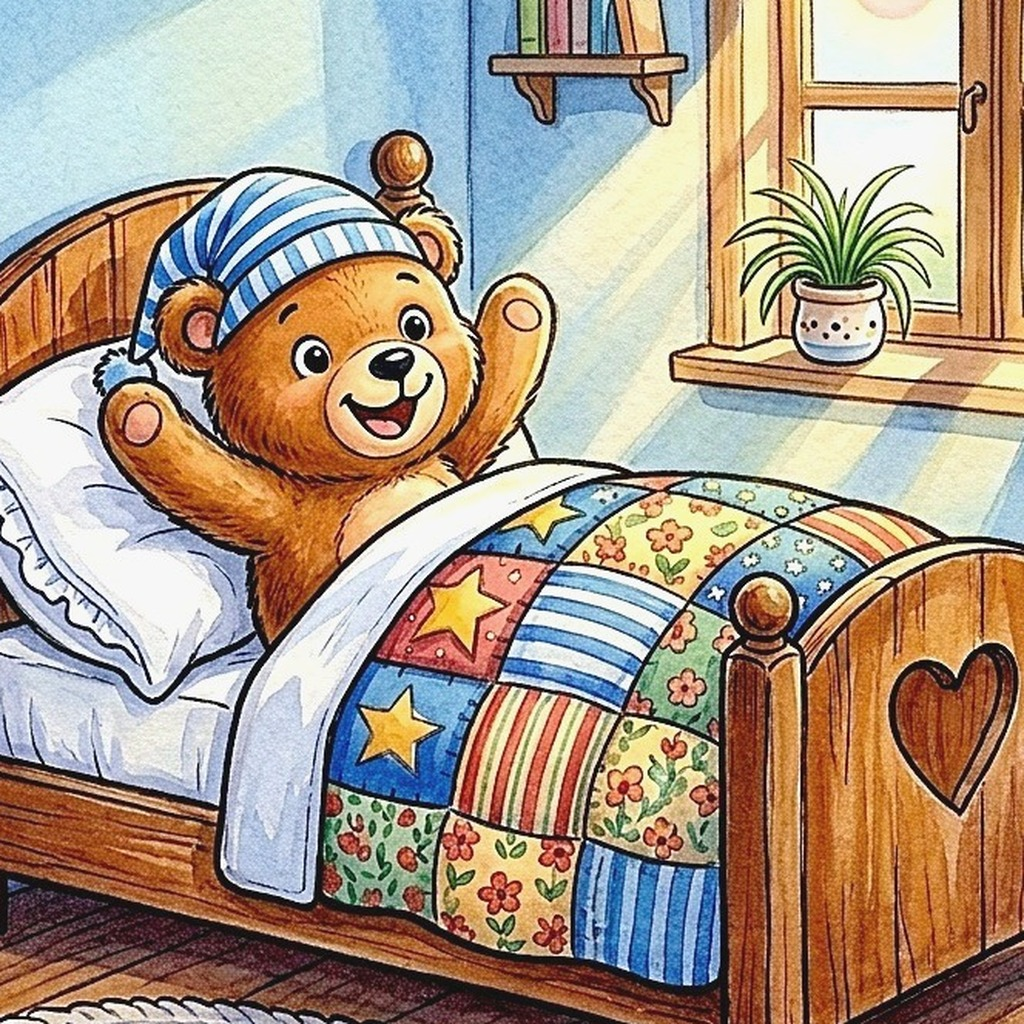
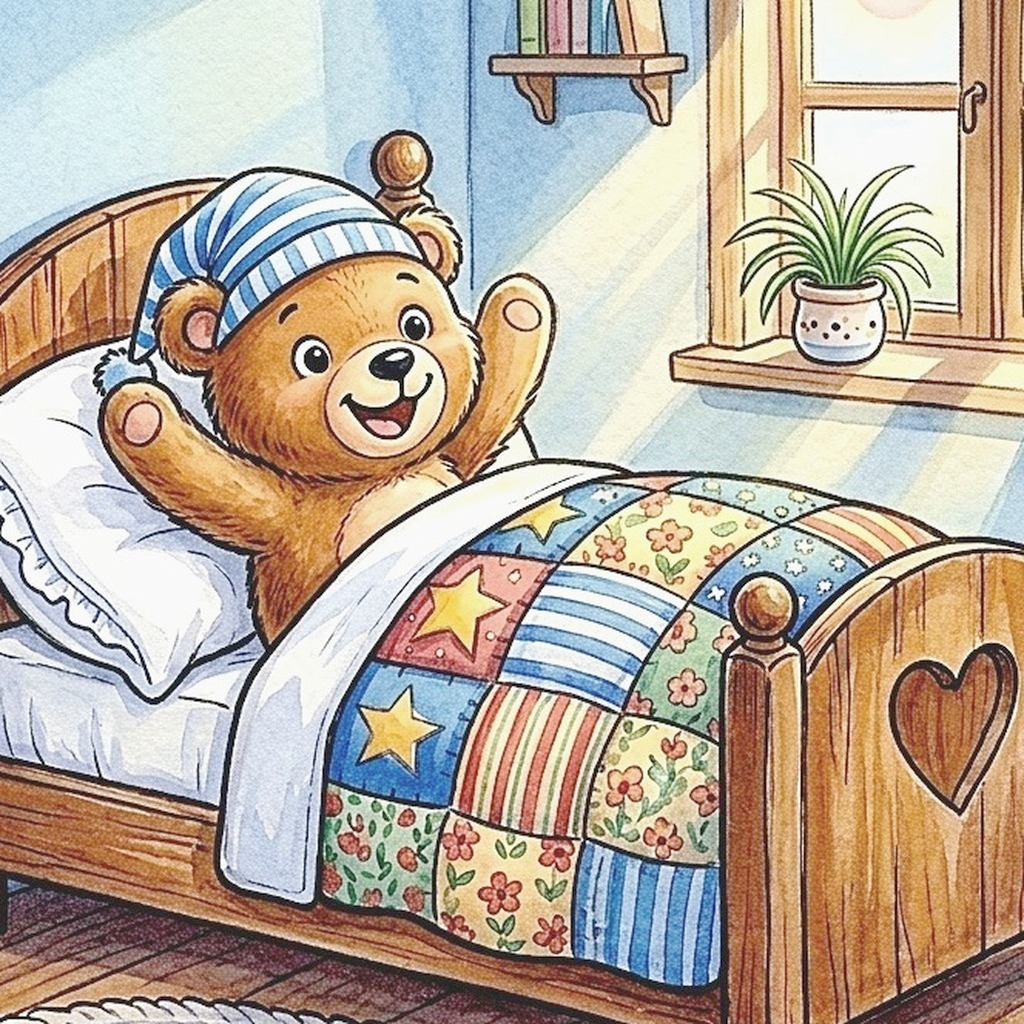
sleep and good-morning: brightened after the border crop
Cropping the light paper border made both darker again (sleep brightness
142.6, saturation 112.7). The sleep change (gamma 0.7, color x0.88) was made
by a subagent of the JobHunt2026 session on Simon's request sent there by
mistake; reviewed here and approved by Simon. The same edit on good-morning:
brightness 154.9 -> 173.3. Google Lens Exact matches on both final files: none.

diff --git a/output/sl-vsakdan.html b/output/sl-vsakdan.html
@@ -228,11 +228,11 @@
   <div class="page-a4 rt-page" style="background: linear-gradient(180deg, #D9CCF6 0%, #F6C9DE 22%, #FFD9B0 45%, #FFF0B8 70%, #D3ECFF 100%);">
     <div class="rt-grid" style="grid-template-rows: 14mm minmax(0, 0.45fr) repeat(14, minmax(0, 1fr)) minmax(0, 0.45fr);">
       <div class="rt-header"><div class="rt-title">☀ JUTRANJA RUTINA</div></div>
-      <div class="rt-pic pic-left" style="--step: #8B5CF6; --bg: #E8D4BF; --ink: #5A3FA9; grid-row: 2 / span 4;">
+      <div class="rt-pic pic-left" style="--step: #8B5CF6; --bg: #ECE0D3; --ink: #5A3FA9; grid-row: 2 / span 4;">
         <img src="../images/good-morning.jpg" alt="Dobro jutro" />
         <div class="rt-num">1</div>
       </div>
-      <div class="rt-card card-left" style="--step: #8B5CF6; --bg: #E8D4BF; --ink: #5A3FA9; grid-row: 3 / span 2;">
+      <div class="rt-card card-left" style="--step: #8B5CF6; --bg: #ECE0D3; --ink: #5A3FA9; grid-row: 3 / span 2;">
         <div class="rt-text">
           <div class="rt-label">DOBRO JUTRO</div>
           <div class="rt-time"><span class="blank"></span>:<span class="blank"></span></div>
@@ -450,11 +450,11 @@
         </div>
         <div class="rt-check"></div>
       </div>
-      <div class="rt-pic pic-left" style="--step: #312E81; --bg: #D0CBDC; --ink: #282569; grid-row: 14 / span 4;">
+      <div class="rt-pic pic-left" style="--step: #312E81; --bg: #D0CBD9; --ink: #282569; grid-row: 14 / span 4;">
         <img src="../images/sleep.jpg" alt="Spanje" />
         <div class="rt-num">7</div>
       </div>
-      <div class="rt-card card-left" style="--step: #312E81; --bg: #D0CBDC; --ink: #282569; grid-row: 15 / span 2;">
+      <div class="rt-card card-left" style="--step: #312E81; --bg: #D0CBD9; --ink: #282569; grid-row: 15 / span 2;">
         <div class="rt-text">
           <div class="rt-label">SPANJE</div>
           <div class="rt-time"><span class="blank"></span>:<span class="blank"></span></div>

diff --git a/web/data.js b/web/data.js
@@ -454,12 +454,12 @@ window.SHEET_EDGES = {
   "clear-table": ["#D8E3D7", "#FBDCB8"],
   "dinner": ["#FFE9BD", "#FDFEFD"],
   "getting-dressed": ["#EBFCF3", "#DEF7E6"],
-  "good-morning": ["#E8D4BF", "#F2F3F5"],
+  "good-morning": ["#ECE0D3", "#F6F7F7"],
   "kindergarten": ["#E7DECC", "#E2D3B8"],
   "make-bed": ["#FFFDF5", "#FFFEF5"],
   "pajamas": ["#FDD5BF", "#FCD6BD"],
   "set-table": ["#FDE8D7", "#FFDD9C"],
-  "sleep": ["#D0CBDC", "#D8D4E3"],
+  "sleep": ["#D0CBD9", "#E2E0E9"],
   "story": ["#C8CCDE", "#D1D8EB"],
   "tidy-toys": ["#F7DEBD", "#FFFEEA"],
   "toilet": ["#D4F3E9", "#BCE9D7"],
